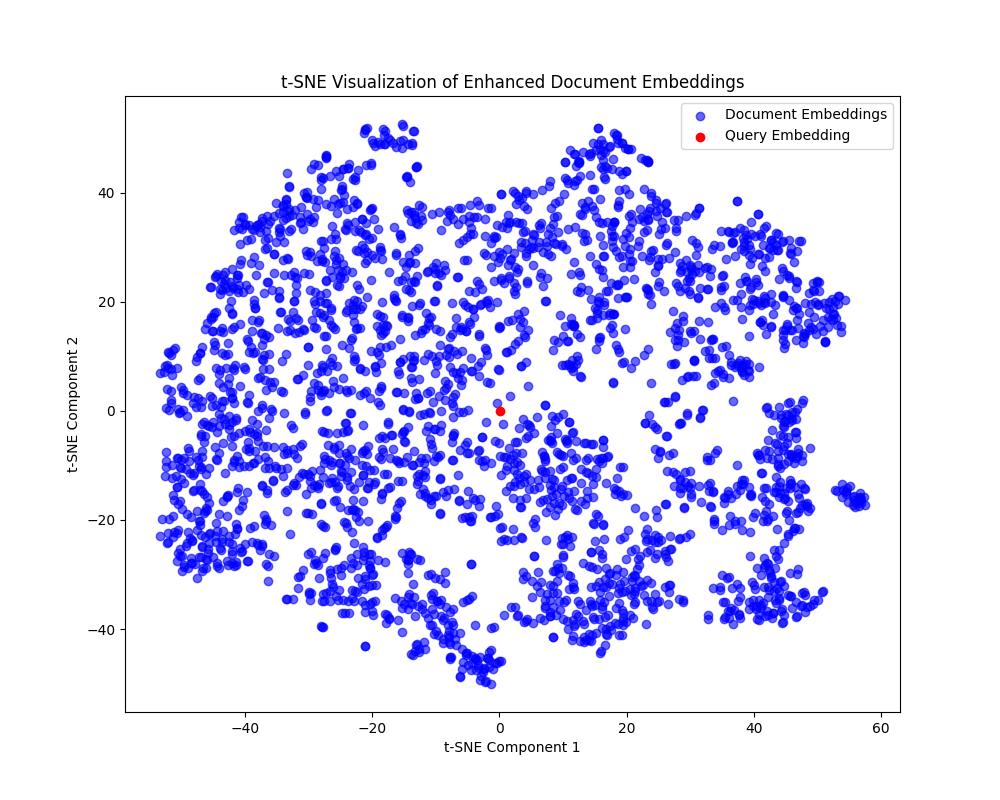
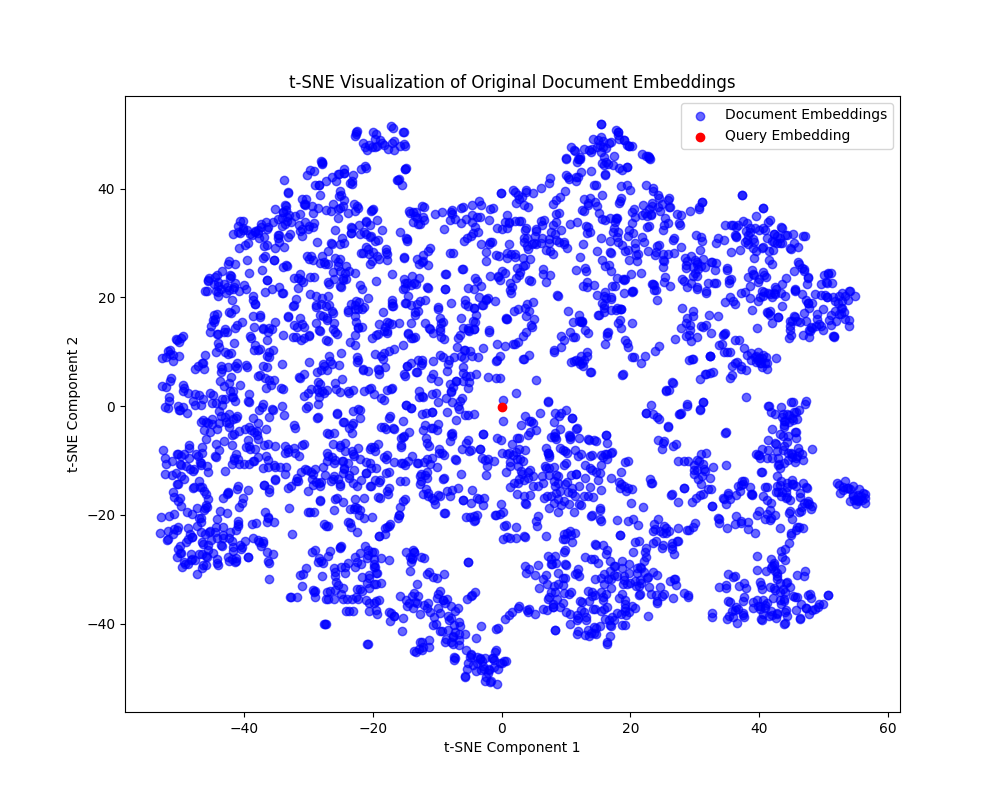
step 1 to 2 complete, text could use some improvements and step 3 needs refining

diff --git a/graphic_representations.py b/graphic_representations.py
@@ -29,7 +29,7 @@ embeddings_2d = tsne.fit_transform(embeddings_pca)
 plt.figure(figsize=(10, 8))
 plt.scatter(embeddings_2d[:, 0], embeddings_2d[:, 1], c='blue', alpha=0.6, label='Document Embeddings')
 plt.scatter(query_embedding_np[:, 0], query_embedding_np[:, 1], c='red', label='Query Embedding')
-plt.title("t-SNE Visualization of Enhanced Document Embeddings")
+plt.title("t-SNE Visualization of Original Document Embeddings")
 plt.xlabel("t-SNE Component 1")
 plt.ylabel("t-SNE Component 2")
 plt.legend()

diff --git a/README.md b/README.md
@@ -1,9 +1,16 @@
 # Document Embedding Query System
 This Readme file is primarily focused in adressing the Query-based search system used in this application, for more detail regarding web-scraping and API within this repository, check README_APS_1.
 
+## Utilizing the query system
+
+before running the API, the scripts in the repository must be used in the following order:
+
+1. webscraper_cnn.py: Setting the pages searched to 10 is advisable for faster running, as this file scrapes data from the cnn website.
+2. embedding.py: Generates base document and enhanced embeddings from the data present, using pre-trained BERT embeddings as base.
+
 ## Dataset
 
-The dataset used for the embedding-based query system is the same used in the first version of this project, set to scrape 100 pages of news articles in order to increase sample size and generate better data clusters. Each document contains title, content and origin data. This dataset has a variable and specific nature, depending on historic moments and current relevance of terms, which generates the need for pre-trained embeddings to fill in the gaps in semantic coverage. This allows for accurate document querying based on semantic relevance, weighted by the embeddings generated from the documents themselves, making it suitable for natural language processing (NLP) tasks involving text similarity and information retrieval.
+The dataset used for the embedding-based query system is the same used in the first version of this project, set to scrape 100 pages of news articles in order to increase sample size and generate better data clusters. Each document contains title, content and origin data. This dataset has a variable and specific nature, depending on the historic moment and current relevance of terms, which generates the need for pre-trained embeddings to fill in the gaps in semantic coverage. This allows for accurate document querying based on semantic relevance, weighted by the embeddings generated from the documents themselves, making it suitable for natural language processing (NLP) tasks involving text similarity and information retrieval.
 
 ## Embedding Generation Process
 
